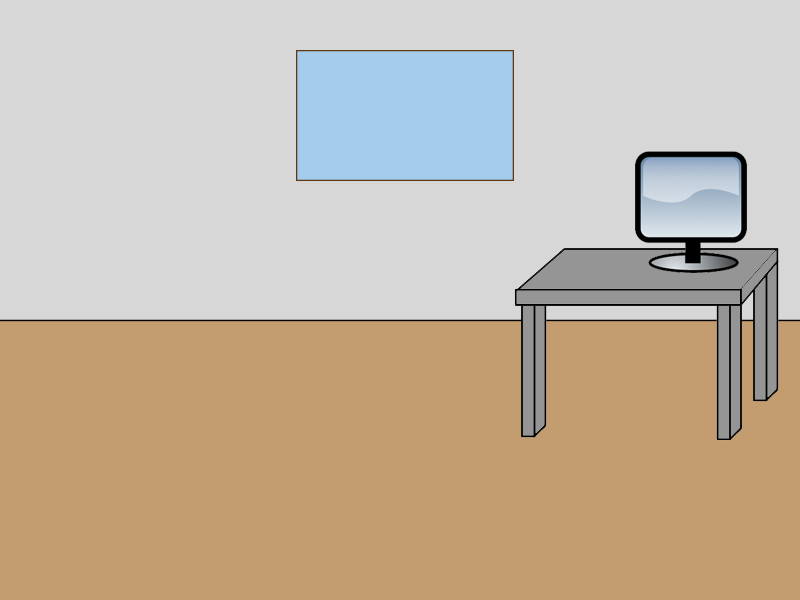
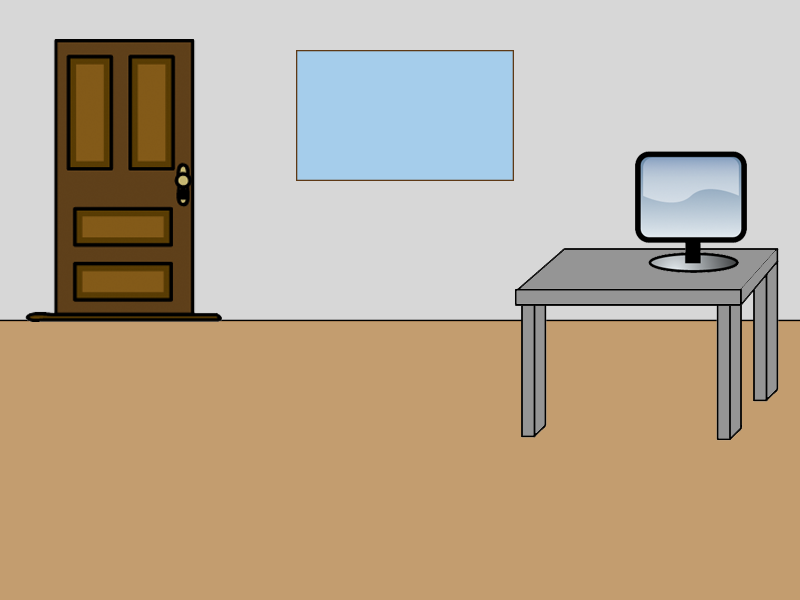
Afleiding ingevoegd

Changed region(s): [[0.0312, 0.06, 0.2812, 0.54]]

diff --git a/phishingjavascript.js b/phishingjavascript.js
@@ -20,6 +20,7 @@
     var scaredplayer = new Image();
     scaredplayer.src = "images/scaredplayer.png";
 
+    //--inladen verschillende schermen--//
     var startscreen = new Image();
     startscreen.src = "images/startscreen.png";
 
@@ -38,21 +39,45 @@
     var laptopscherm4 = new Image();
     laptopscherm4.src = "images/laptopscherm4.png";
 
+    var laptopscherm4a = new Image();
+    laptopscherm4a.src = "images/laptopscherm4a.png";
+
     var laptopscherm5 = new Image();
     laptopscherm5.src = "images/laptopscherm5.png";
 
     var laptopscherm6 = new Image();
     laptopscherm6.src = "images/laptopscherm6.png";
 
+    var laptopscherm7 = new Image();
+    laptopscherm7.src = "images/laptopscherm7.png";
+
+    var laptopscherm8 = new Image();
+    laptopscherm8.src = "images/laptopscherm8.png";
+
+    var laptopscherm9 = new Image();
+    laptopscherm9.src = "images/laptopscherm9.png";
+
+    var laptopscherm9a = new Image();
+    laptopscherm9a.src = "images/laptopscherm9a.png";
+
     var afleiding1 = new Image();
     afleiding1.src = "images/afleiding1.png";
+
+    var afleiding2 = new Image();
+    afleiding2.src = "images/afleiding2.png";
 
     var hint1 = new Image();
     hint1.src = "images/tips1.png";
 
     var hint2 = new Image();
     hint2.src = "images/tips2.png";
+
+    var hint3 = new Image();
+    hint3.src = "images/tips3.png";
    
+    var hint4 = new Image();
+    hint4.src = "images/tips4.png";
+
     //--background canvas--//
     var bgcanvas = document.getElementById("bgcanvas"),
         bgctx = bgcanvas.getContext("2d"),
@@ -83,10 +108,13 @@
     var vraagaan = 0;
     var afleidingaan = 0;
     var pc1gedaan = false;
+    var pc2gedaan = false;
     var vraagnummer = 1;
     var afleidingsnummer = 1;
     var raamaan = false;
     var keypressed = false;
+    var eindegoed = false;
+    var eindeslecht = false;
    
     //--avatar canvas--//
 		var avcanvas = document.getElementById("avcanvas"),
@@ -173,6 +201,8 @@
             //--in het geval van vragen, doe onderstaande acties--//
             if (vraagaan ===1) {
               console.log("JA")
+
+              //--eerste set vragen--//
               if (vraagnummer ===1) {
                 clearQ();
                 drawQ2();
@@ -201,18 +231,59 @@
                 spelspeelbaar = 1;
                 raamaan = true;
               }
+
+              //--tweede set vragen--//
+              if (vraagnummer ===9) {
+                clearQ();
+                drawQ8();
+              }
+              if (vraagnummer ===10 && eindscore > 0) {
+                clearQ();
+                drawQ4();
+              }
+              if (vraagnummer ===10 && eindscore === 0) {
+                clearQ();
+                drawQ4a();
+                score--;
+              }
+              if (vraagnummer ===11 && eindscore > 0) {
+                clearQ();
+                drawQ9();
+              }
+              if (vraagnummer ===11 && eindscore === 0) {
+                clearQ();
+                drawQ9a();
+                score--;
+              }
+              if (vraagnummer ===12 && eindscore > 0) {
+                clearQ();
+                pc2gedaan = true;
+                spelspeelbaar = 1;
+                eindegoed = true;
+              }
+              if (vraagnummer ===12 && eindscore === 0) {
+                clearQ();
+                score--;
+                pc2gedaan = true;
+                spelspeelbaar = 1;
+                eindeslecht = true;
+              }
               vraagnummer++;
-              console.log("score", score, "eindscore", eindscore);
             }
 
             //--in geval van afleiding, doe onderstaande acties--//
             if (afleidingaan ===1){
               if (afleidingsnummer ===1) {
                 clearQ();
+                drawDist2();
+              }
+              if (afleidingsnummer ===2) {
+                clearQ();
                 spelspeelbaar = 1;
                 afleidingaan = 0;
                 raamaan = false;
               }
+              afleidingsnummer++;
             }
           } 
         }
@@ -229,27 +300,19 @@
                 clearQ();
                 drawQ6();
                 vraagnummer = 6;
-                eindscore = eindscore+1;
               }
               if (vraagnummer ===2) {
                 clearQ();
                 drawQ6();
                 vraagnummer = 6;
-                eindscore = eindscore+3;
+                eindscore++;
               }
               if (vraagnummer ===3) {
                 clearQ();
                 drawQ6();
                 vraagnummer = 6;
-                eindscore = eindscore+1;
+                eindscore++;
               }
-
-              console.log("score", score, "eindscore", eindscore);
-            }
-
-            //--in geval van afleiding, doe onderstaande acties--//
-            if (afleidingaan ===1){
-              
             }
           } 
         }
@@ -269,22 +332,37 @@
                   clearQ();
                   drawDist();
                 }
-                
               }
+
+              //--interactie deur--//
+              if (player.x > 20 && player.x < 105 && player.y >= 100 && player.y <=135) {
+                
+               if (eindeslecht === true) {
+                  spelspeelbaar = 0;
+                  
+                }
+
+               if (eindegoed === true) {
+                  spelspeelbaar = 0;
+                } 
+              }
+
               //--interactie laptop--//
               if (player.x > 596 && player.x < 700 && player.y >= 138 && player.y <=190) {
-                spelspeelbaar = 0;
-                vraagaan = 1;
 
                 //--eerste set vragen--//
-                if (pc1gedaan === false) {
+                if (pc1gedaan === false && pc2gedaan === false) {
+                  spelspeelbaar = 0;
+                  vraagaan = 1;
                   clearQ();
                   drawQ();
                 }
                 //--tweede set vragen--//
-                if (pc1gedaan === true) {
-                  spelspeelbaar = 1;
-                  console.log("eerste set voltooid");
+                if (pc1gedaan === true && pc2gedaan === false) {
+                  clearQ();
+                  spelspeelbaar = 0;
+                  vraagaan = 1;
+                  drawQ7();
                 }
               }  
             }
@@ -307,10 +385,10 @@
         }
 
         if (keys[80]) {
-          //--score toets voor debug doeleinden--//
+          //--toets voor debug doeleinden--//
           if (!keypressed) {
             keypressed = true;
-            console.log("moodindex", score, "eindscore", eindscore);
+            console.log("moodindex", score, "eindscore", eindscore, "vraagnummer", vraagnummer);
           }  
         }
 
@@ -342,17 +420,23 @@
       hintctx.clearRect(0,0,width,height);
       if (spelspeelbaar ===1) {
        if (vraagnummer === 1) {
-          hintctx.drawImage(hint1,0,0,800,600,0,0,800,600);
+        hintctx.drawImage(hint1,0,0,800,600,0,0,800,600);
        }
        if (vraagnummer === 7) {
-          hintctx.drawImage(hint2,0,0,800,600,0,0,800,600);
+        hintctx.drawImage(hint2,0,0,800,600,0,0,800,600);
+       }
+       if (vraagnummer ===9) {
+        hintctx.drawImage(hint3,0,0,800,600,0,0,800,600);
+       }
+       if (vraagnummer >= 13) {
+        hintctx.drawImage(hint4,0,0,800,600,0,0,800,600);
        }
       } 
 
       //--teken speler afhankelijk van score--//
       avctx.clearRect(0,0,width,height);
       //--teken bange speler als score slecht is--//
-      if (score < -4) {
+      if (score <= -4) {
         avctx.drawImage(scaredplayer, player.x, player.y, 139, player.height);
       } 
       //--teken zorgelijke speler als score gemiddeld is--//
@@ -410,13 +494,16 @@
       vrgctx.drawImage(laptopscherm2,0,0,800,600,0,0,800,600);
     }
 
-
     function drawQ3(){
       vrgctx.drawImage(laptopscherm3,0,0,800,600,0,0,800,600);
     }
 
     function drawQ4(){
       vrgctx.drawImage(laptopscherm4,0,0,800,600,0,0,800,600);
+    }
+
+    function drawQ4a(){
+      vrgctx.drawImage(laptopscherm4a,0,0,800,600,0,0,800,600);
     }
 
     function drawQ5(){
@@ -427,8 +514,29 @@
       vrgctx.drawImage(laptopscherm6,0,0,800,600,0,0,800,600);
     }
 
+    function drawQ7(){
+      vrgctx.drawImage(laptopscherm7,0,0,800,600,0,0,800,600);
+    }
+
+    function drawQ8(){
+      vrgctx.drawImage(laptopscherm8,0,0,800,600,0,0,800,600);
+    }
+
+    function drawQ9(){
+      vrgctx.drawImage(laptopscherm9,0,0,800,600,0,0,800,600);
+    }
+
+    function drawQ9a(){
+      vrgctx.drawImage(laptopscherm9a,0,0,800,600,0,0,800,600);
+    }
+
+    //--afleidingen tekenen--//
     function drawDist(){
       vrgctx.drawImage(afleiding1,0,0,800,600,0,0,800,600);
+    }
+
+    function drawDist2(){
+      vrgctx.drawImage(afleiding2,0,0,800,600,0,0,800,600);
     }
 
   //--eventlistener koppelen aan toetsen--//

diff --git a/phishingindex.html b/phishingindex.html
@@ -4,7 +4,7 @@
 
 	<title>Phishing</title>
 
-	<link rel="stylesheet" href="game.css">
+	<link rel="stylesheet" href="phishinggame.css">
 
 </head>
 
@@ -16,7 +16,7 @@
 	<canvas id="startcanvas" width='800px' height='600px'></canvas>
 	<canvas id="hintcanvas" width='800px' height='600px'></canvas>
 
-	<script src="javascript.js"></script>
+	<script src="phishingjavascript.js"></script>
 
 </body>
 </html>
